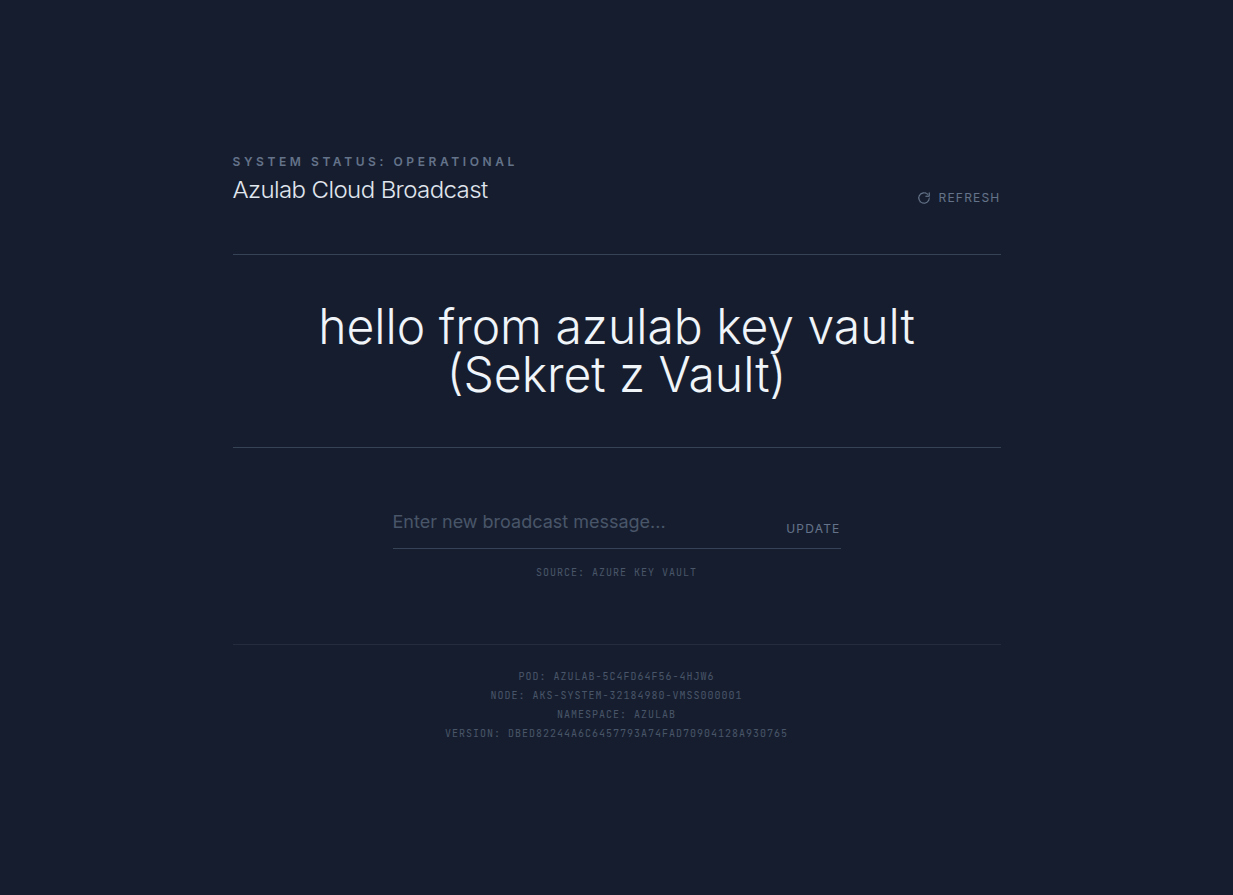
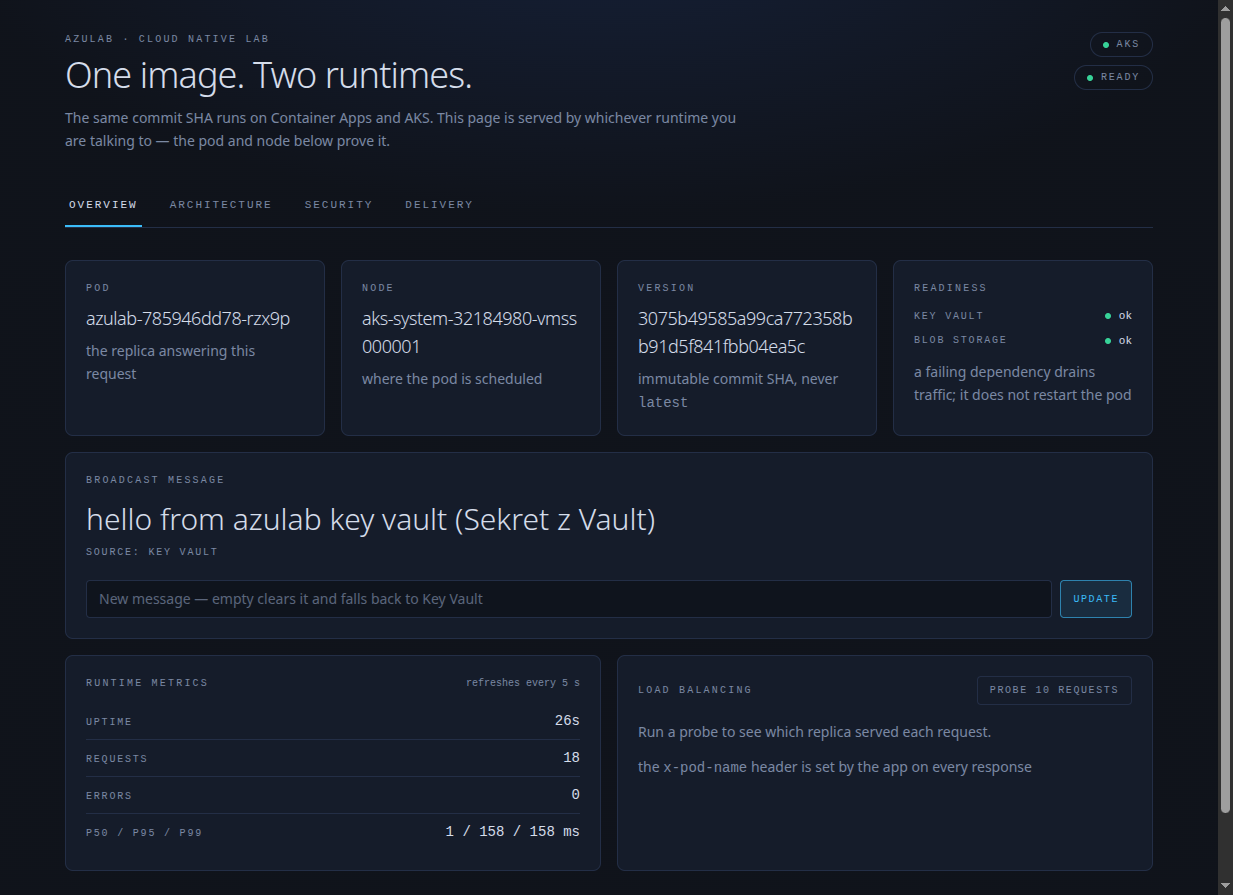
docs: capture the dashboard, the architecture map and the new evidence
- README: the four tabs and a screenshot of the live AKS dashboard
- presentation.md: the tabs are the presentation surface; the demo order now
  names the tab to open at each step; the tag is described generically
- demo-script.md: note that the tabs are the visual anchor
- study.md: dashboard row in the file map
- evidence: regenerated against the live system (same tag on both runtimes,
  dashboard assets 200, pod distribution, security posture)
- screenshot: docs/img/aks-architecture.png added

diff --git a/docs/presentation.md b/docs/presentation.md
@@ -11,7 +11,7 @@ Jedna strona. Wszystko, co trzeba zrobić przed rozmową i w jej trakcie.
 | **AKS** | **http://74.158.77.185/** | publiczny, bez logowania |
 | **Container Apps** | https://ca-azulab-dev.bluesand-12892b79.polandcentral.azurecontainerapps.io | HTTPS + login Entra |
 
-Oba runtime'y na tym samym tagu: `dbed82244a6c6457793a74fad70904128a930765`.
+Oba runtime'y na tym samym tagu — aktualny SHA pokaże `/version` na obu adresach.
 
 > IP AKS jest przypisane do `Service`. Jeśli Service zostanie usunięty i odtworzony,
 > adres się zmieni. Zawsze pobieraj go komendą, nie z notatek:
@@ -62,20 +62,35 @@ curl -s -o /dev/null -w "%{http_code}\n" \
 
 ---
 
+## 2a. Interfejs — cztery zakładki
+
+Dashboard jest planszą prezentacji. Otwórz go na adresie AKS i zostań na nim.
+
+| Zakładka | Co pokazuje | Kiedy użyć |
+| --- | --- | --- |
+| **Overview** | pod, node, version, readiness, message, metryki, probe 10 requestów | otwarcie rozmowy — dowód, że działa |
+| **Architecture** | mapa systemu SVG z krótkimi podpisami | „jak to działa" — GitHub → CI → GHCR → ACA/AKS → identity → KV/Blob → LAW |
+| **Security** | identity, RBAC, Key Vault, storage, audyt, login — każda karta z komendą dowodową | tematy mentora: RBAC, bezpieczeństwo, Key Vault |
+| **Delivery** | pipeline, artefakt, koszt, linki | CI/CD i pytania o koszt |
+
+Tekst na kartach jest celowo jednokartkowy — rozwijasz go werbalnie.
+
+---
+
 ## 3. Kolejność pokazywania (12 min)
 
-| # | Co | Komenda | Co powiedzieć |
-| --- | --- | --- | --- |
-| 1 | Klaster | `kubectl get nodes`, `get pods` | „Jeden node, Free tier, 2 repliki" |
-| 2 | Artefakt | obraz AKS vs ACA | „Ten sam tag, dwa runtime'y" |
-| 3 | Zero-downtime | pętla `curl` + `rollout restart` | „maxUnavailable: 0, 100% 200" |
-| 4 | Readiness | `fail-readiness`, endpoints | „pod wypada z ruchu, nie restartuje się" |
-| 5 | RBAC | 0 ról pipeline'u, grupa | „członkostwo, nie przypisanie" |
-| 6 | Key Vault | audyt KQL | „kto, skąd, kiedy czytał sekret" |
-| 7 | Blob | Owner 403, klucz odrzucony | „control plane ≠ data plane" |
-| 8 | Entra login | ACA → login | „jeden sekret, świadomie zaakceptowany" |
-| 9 | CI/CD | zielony run | „merge → obraz → oba runtime'y" |
-| 10 | Trade-offy | single node, kubenet, brak HPA | „świadome decyzje kosztowe" |
+| # | Zakładka | Co | Komenda | Co powiedzieć |
+| --- | --- | --- | --- | --- |
+| 1 | Overview | Klaster | `kubectl get nodes`, `get pods` | „Jeden node, Free tier, 2 repliki" |
+| 2 | Overview | Artefakt | obraz AKS vs ACA | „Ten sam tag, dwa runtime'y" |
+| 3 | Overview | Zero-downtime | pętla `curl` + `rollout restart` | „maxUnavailable: 0, 100% 200" |
+| 4 | Overview | Readiness | `fail-readiness`, endpoints | „pod wypada z ruchu, nie restartuje się" |
+| 5 | Security | RBAC | 0 ról pipeline'u, grupa | „członkostwo, nie przypisanie" |
+| 6 | Security | Key Vault | audyt KQL | „kto, skąd, kiedy czytał sekret" |
+| 7 | Security | Blob | Owner 403, klucz odrzucony | „control plane ≠ data plane" |
+| 8 | Security | Entra login | ACA → login | „jeden sekret, świadomie zaakceptowany" |
+| 9 | Delivery | CI/CD | zielony run | „merge → obraz → oba runtime'y" |
+| 10 | Architecture | Trade-offy | single node, kubenet, brak HPA | „świadome decyzje kosztowe" |
 
 Pełne komendy i tekst: **[`docs/demo-script.md`](demo-script.md)**.
 

diff --git a/README.md b/README.md
@@ -43,6 +43,17 @@ See **[`docs/aks.md`](docs/aks.md)** for the cluster design,
 
 ---
 
+### 🖥 The dashboard
+
+The application is a four-tab dashboard: **Overview** (live pod, node, version and
+readiness), **Architecture** (the system map), **Security** (identity, RBAC, Key
+Vault, storage and audit) and **Delivery** (pipeline and cost). The tabs are the
+presentation; the backend is unchanged.
+
+![Azulab dashboard on AKS](docs/img/aks-ui.png)
+
+---
+
 ## 📂 Documentation Hub (Your Learning Path)
 
 **Start here:**

diff --git a/docs/study.md b/docs/study.md
@@ -183,6 +183,7 @@ Dlatego awaria Key Vault drenuje ruch, a nie restartuje wszystkich replik."
 
 | Chcę zrozumieć | Plik |
 | --- | --- |
+| Dashboard na żywo | `http://<AKS-IP>/` — zakładki Overview / Architecture / Security / Delivery |
 | RBAC i grupy | `docs/rbac-matrix.md`, `docs/drill-rbac-kv.md` (A) |
 | Key Vault | `docs/secret-lifecycle.md`, `docs/deep-dive-keyvault-blob.md` (1) |
 | Blob Storage | `docs/deep-dive-keyvault-blob.md` (2) |

diff --git a/docs/demo-script.md b/docs/demo-script.md
@@ -3,6 +3,10 @@
 Target: 12–15 minutes. Every command has a one-line "what to say" next to it.
 Run from the repository root.
 
+> The dashboard has four tabs — **Overview**, **Architecture**, **Security**,
+> **Delivery**. Keep it open on the AKS URL; the tabs are the visual anchor, the
+> commands below are the proof behind each card.
+
 ---
 
 ## 0. Pre-flight (15 minutes before the call)
